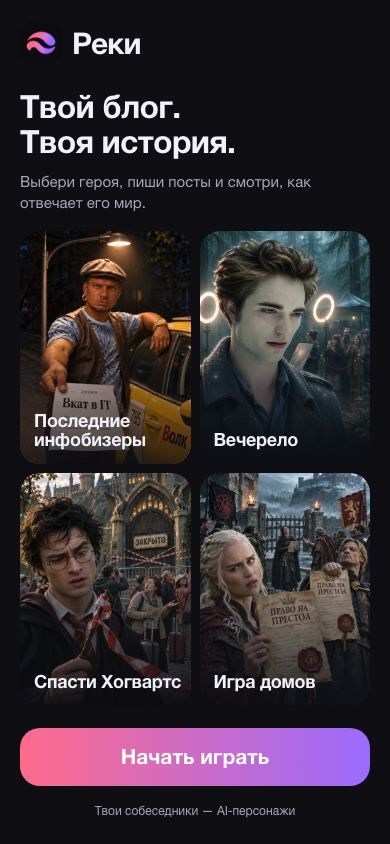
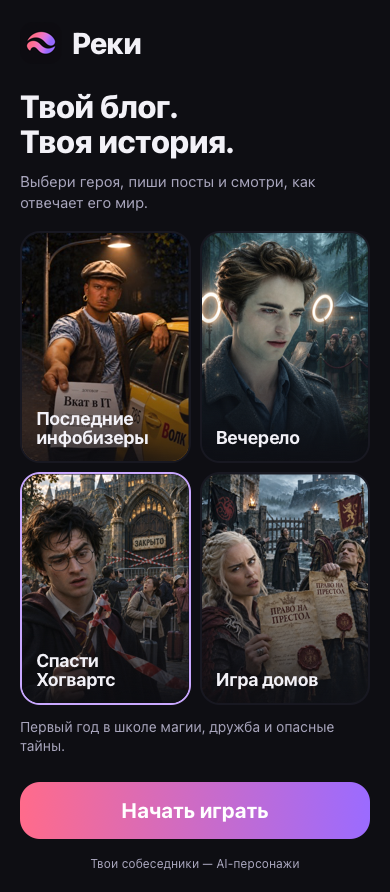
feat(frontend): вход в выбранный на лендинге мир #205 (#310)
Лендинги выбирают мир до входа; новый игрок проходит возраст и согласие перед настройкой выбранного мира. Главная открывает Хогвартс, явные ссылки переключают лендинг.

Refs #205

diff --git a/frontend/src/app/landing/Landing.tsx b/frontend/src/app/landing/Landing.tsx
@@ -1,18 +1,33 @@
 import { useEffect, useRef, useState } from 'react'
+import { api } from '../../api/client'
+import { worlds as templates } from '../../api/worldContent'
+import type { World } from '../../api/types'
 import { Button } from '../../ui'
 import { screenView, trackLanding } from '../analytics'
 import { assignLanding, requestedVariant } from './experiment'
 import './landing.css'
 
 const worlds = [
-  { id: 'infobiz', title: 'Последние инфобизеры' },
-  { id: 'evening', title: 'Вечерело' },
-  { id: 'hogwarts', title: 'Спасти Хогвартс' },
-  { id: 'houses', title: 'Игра домов' },
+  { id: 'infobiz', templateId: '5720946a-ea7c-4a10-9c50-51ce3deefc53', title: 'Последние инфобизеры' },
+  { id: 'evening', templateId: 'b3a1a522-0263-4796-a197-57a8731fc291', title: 'Вечерело' },
+  { id: 'hogwarts', templateId: 'aec9494b-4118-4525-8458-e85d759c8dd9', title: 'Спасти Хогвартс' },
+  { id: 'houses', templateId: '8c02a7fb-3b55-4eb0-b957-1b4869ed9834', title: 'Игра домов' },
 ] as const
 
-export function Landing({ onContinue, preview = false }: { onContinue: () => void; preview?: boolean }) {
-  const [variant] = useState(() => preview ? requestedVariant() ?? 'worlds' : assignLanding())
+export function Landing({ onContinue, preview = false }: { onContinue: (worldId: string) => void; preview?: boolean }) {
+  const [variant] = useState(() => preview ? requestedVariant() ?? 'hogwarts' : assignLanding())
+  const [selected, setSelected] = useState<string>(variant === 'hogwarts' ? worlds[2].templateId : worlds[0].templateId)
+  const [available, setAvailable] = useState<World[]>([])
+  const [error, setError] = useState(false)
+  const [attempt, setAttempt] = useState(0)
+  useEffect(() => {
+    let active = true
+    setError(false)
+    void api.loadWorldTemplates().then(() => { if (active) setAvailable([...templates]) }).catch(() => { if (active) setError(true) })
+    return () => { active = false }
+  }, [attempt])
+  const chosen = available.find(world => world.id === selected)
+  const summary = chosen && (selected === worlds[2].templateId ? 'Первый год в школе магии, дружба и опасные тайны.' : chosen.summary)
   const viewed = useRef(false)
   const clicked = useRef(false)
   const heading = useRef<HTMLHeadingElement>(null)
@@ -24,20 +39,21 @@ export function Landing({ onContinue, preview = false }: { onContinue: () => voi
     trackLanding('landing_view')
   }, [variant, preview])
   const start = () => {
-    if (clicked.current) return
+    if (clicked.current || !chosen) return
     clicked.current = true
-    onContinue()
+    onContinue(chosen.id)
   }
   return <main className={`entry-landing entry-landing--${variant}`} aria-labelledby="landing-title">
     {variant === 'hogwarts' && <img className="landing-hero-art" src="/landing/hogwarts-960.jpg" srcSet="/landing/hogwarts-480.jpg 480w, /landing/hogwarts-960.jpg 960w" sizes="(max-width: 430px) 100vw, 430px" alt="Озадаченный волшебник перед закрытым замком, ограждённым лентой; туристы фотографируют ворота" fetchPriority="high" />}
     <header className="landing-brand"><img src="/android-chrome-192x192.png?v=wave-2" width="42" height="42" alt="" /><span>Реки</span></header>
     {variant === 'worlds' ? <>
       <section className="landing-copy"><h1 ref={heading} id="landing-title" tabIndex={-1}>Твой блог.<br />Твоя история.</h1><p>Выбери героя, пиши посты и смотри, как отвечает его мир.</p></section>
-      <section className="landing-mosaic" aria-label="Игровые миры">{worlds.map(world => <div className="landing-world" key={world.id}><img src={`/landing/${world.id}-480.jpg`} width="480" height="720" alt="" fetchPriority={world.id === 'infobiz' ? 'high' : 'auto'} /><strong>{world.title}</strong></div>)}</section>
+      <section className="landing-mosaic" aria-label="Игровые миры">{worlds.map(world => <button type="button" className="landing-world" key={world.id} aria-pressed={selected === world.templateId} onClick={() => setSelected(world.templateId)}><img src={`/landing/${world.id}-480.jpg`} width="480" height="720" alt="" fetchPriority={world.id === 'infobiz' ? 'high' : 'auto'} /><strong>{world.title}</strong></button>)}</section>
+      <p className="landing-world-summary" aria-live="polite">{summary ?? (error ? '' : available.length ? 'Этот мир сейчас недоступен. Выбери другой.' : 'Загружаем миры…')}</p>
     </> : <>
-      <section className="landing-hero-copy"><div className="landing-eyebrow">Спасти Хогвартс</div><h1 ref={heading} id="landing-title" tabIndex={-1}>Хогвартс закрыт.<br />Твоя история — нет.</h1><p>Выбери героя. Веди его блог.<br />Решай, кому верить.</p></section>
+      <section className="landing-hero-copy"><div className="landing-eyebrow">Спасти Хогвартс</div><h1 ref={heading} id="landing-title" tabIndex={-1}>Хогвартс закрыт.<br />Спаси его от банкротства.</h1><p>Выбери героя. Веди его блог.<br />Решай, кому верить.</p></section>
       <section className="landing-other-worlds" aria-label="Другие игровые миры">{worlds.filter(world => world.id !== 'hogwarts').map(world => <div key={world.id}><img src={`/landing/${world.id}-480.jpg`} width="480" height="720" alt="" /><span>{world.id === 'infobiz' ? 'Инфобизеры' : world.title}</span></div>)}</section>
     </>}
-    <footer className="landing-actions"><Button onClick={start}>Начать играть</Button><p>Твои собеседники — AI-персонажи</p></footer>
+    <footer className="landing-actions">{error && <div role="alert" className="landing-load-error"><p>Не получилось загрузить миры.</p><Button secondary onClick={() => setAttempt(value => value + 1)}>Попробовать снова</Button></div>}{!error && variant === 'hogwarts' && !chosen && <p role="status">{available.length ? 'Этот мир сейчас недоступен.' : 'Загружаем мир…'}</p>}<Button onClick={start} disabled={!chosen}>Начать играть</Button><p>Твои собеседники — AI-персонажи</p></footer>
   </main>
 }

diff --git a/frontend/src/app/landing/experiment.ts b/frontend/src/app/landing/experiment.ts
@@ -1,7 +1,9 @@
 export type LandingVariant = 'worlds' | 'hogwarts'
-type Assignment = { variant: LandingVariant; source: 'link' | 'direct'; utm: Record<string, string>; firstPost?: boolean }
+type Assignment = { variant: LandingVariant; source: 'link' | 'direct'; utm: Record<string, string>; firstPost?: boolean; initialVariant?: LandingVariant; switched?: boolean; worldId?: string }
 const key = 'reki:landing:entry-v1'
 const authKey = `${key}:auth`
+const worldKey = `${key}:world`
+let worldFallback: string | undefined
 let fallback: Assignment | undefined
 const valid = (value: unknown): value is LandingVariant => value === 'worlds' || value === 'hogwarts'
 export const isLandingPreview = () => !!import.meta.env?.DEV && new URLSearchParams(location.search).get('preview') === 'landing'
@@ -10,6 +12,7 @@ export function requestedVariant(): LandingVariant | undefined {
   return valid(value) ? value : undefined
 }
 function read(): Assignment | undefined {
+  if (fallback) return fallback
   try {
     const value = JSON.parse(localStorage.getItem(key) ?? 'null') as Assignment | null
     if (value && valid(value.variant) && (value.source === 'link' || value.source === 'direct')) return value
@@ -22,27 +25,38 @@ function save(value: Assignment) {
 }
 export function assignLanding(): LandingVariant {
   const saved = read()
-  if (saved) return saved.variant
   const requested = requestedVariant()
+  const variant = requested ?? 'hogwarts'
+  const source = requested ? 'link' : 'direct'
+  if (saved && variant === saved.variant && source === saved.source) return saved.variant
   const query = new URLSearchParams(location.search)
   const utm: Record<string, string> = {}
   for (const name of ['utm_source', 'utm_medium', 'utm_campaign', 'utm_content']) {
     const value = query.get(name)
     if (value && /^[a-zA-Z0-9_.-]{1,64}$/.test(value)) utm[name] = value
   }
-  const assignment: Assignment = { variant: requested ?? 'worlds', source: requested ? 'link' : 'direct', utm }
+  const assignment: Assignment = { variant, source, utm, firstPost: saved?.firstPost, initialVariant: saved?.initialVariant ?? saved?.variant ?? variant, switched: saved?.switched || !!saved && saved.variant !== variant }
+  clearLandingWorld()
+  authFallback = false
+  try { sessionStorage.removeItem(authKey) } catch { /* A new landing starts a new entry attempt. */ }
   save(assignment)
   return assignment.variant
 }
 export function landingContext(): Record<string, string> | undefined {
   const value = read()
-  return value ? { ...value.utm, landing_experiment: 'entry_v1', landing_variant: value.variant, landing_source: value.source } : undefined
+  return value ? { ...value.utm, landing_experiment: 'entry_v1', landing_variant: value.variant, landing_initial_variant: valid(value.initialVariant) ? value.initialVariant : value.variant, landing_switched: value.switched ? 'true' : 'false', landing_source: value.source, ...(value.worldId ? { landing_world_id: value.worldId } : {}) } : undefined
 }
 let authFallback = false
 export function landingAuthPending(): boolean {
+  const requested = requestedVariant()
+  if (requested && requested !== read()?.variant) return false
   try { return sessionStorage.getItem(authKey) === '1' || authFallback } catch { return authFallback }
 }
-export function beginLandingAuth() {
+export function beginLandingAuth(worldId: string) {
+  worldFallback = worldId
+  try { sessionStorage.setItem(worldKey, worldId) } catch { /* Keep this visit usable. */ }
+  const value = read()
+  if (value) save({ ...value, worldId })
   authFallback = true
   try { sessionStorage.setItem(authKey, '1') } catch { /* Keep the button working. */ }
 }
@@ -57,4 +71,12 @@ export function completeLandingPost(): boolean {
   if (isLandingPreview() || !value || value.firstPost) return false
   save({ ...value, firstPost: true })
   return true
+}
+
+export function pendingLandingWorld(): string | undefined {
+  try { return worldFallback ?? sessionStorage.getItem(worldKey) ?? undefined } catch { return worldFallback }
+}
+export function clearLandingWorld() {
+  worldFallback = undefined
+  try { sessionStorage.removeItem(worldKey) } catch { /* In-memory state is enough for this visit. */ }
 }

diff --git a/frontend/src/App.tsx b/frontend/src/App.tsx
@@ -16,7 +16,7 @@ import { useAvatarPersonalization } from './app/avatarPersonalization'
 import type { WorldId } from './api/types'
 
 import { Landing } from './app/landing/Landing'
-import { beginLandingAuth, completeLandingAuth, landingAuthPending, isLandingPreview } from './app/landing/experiment'
+import { beginLandingAuth, completeLandingAuth, landingAuthPending, isLandingPreview, pendingLandingWorld } from './app/landing/experiment'
 
 type Entry = { id: ScreenId; params: Record<string, unknown> }
 
@@ -53,14 +53,16 @@ function Shell() {
   useEffect(() => { setScreen(top.id); screenView(top.id) }, [top.id])
   useEffect(() => { if (player?.experiments) setExperiments(player.experiments) }, [player?.experiments])
   useEffect(() => {
-    if ((playerState !== 'ready' && !(playerState === 'missing' && api.hasPlayer())) || explicitStart || top.id !== '01-1_invite') return
-    setStack([{ id: '01-3_world', params: {} }])
+    if (explicitStart || top.id !== '01-1_invite' || playerState === 'loading' || playerState === 'failed') return
+    const world = pendingLandingWorld()
+    if (world) setStack([{ id: api.hasPlayer() ? '01-3b_world_overview' : '01-2_age', params: { world, fromLanding: true } }])
+    else if (playerState === 'ready' || api.hasPlayer()) setStack([{ id: '01-3_world', params: {} }])
   }, [explicitStart, playerState, top.id])
   const back = useCallback(() => nav.back(), [nav])
   useEffect(() => syncBackButton(stack.length > 1 && top.id !== '02-6_thread', back), [stack.length, top.id, back])
 
   const Screen = SCREENS[top.id]?.component
-  const resolvingExistingPlayer = (playerState === 'ready' || playerState === 'missing' && api.hasPlayer()) && !explicitStart && top.id === '01-1_invite'
+  const resolvingExistingPlayer = (playerState === 'ready' || playerState === 'missing' && (api.hasPlayer() || !!pendingLandingWorld())) && !explicitStart && top.id === '01-1_invite'
   if (!Screen || playerState === 'loading' || resolvingExistingPlayer) return <div className="app"><div className="screen"><div className="pad" role="status">Загружаем твою игру…</div></div></div>
   if (playerState === 'failed') return <div className="app"><div className="screen"><div className="pad"><p>Не получилось загрузить игру.</p><button className="btn" onClick={() => location.reload()}>Попробовать снова</button></div></div></div>
   const people: React.ContextType<typeof AvatarPeople> = {}
@@ -115,8 +117,8 @@ export function App() {
         : 'Не получилось войти. Проверь подключение и попробуй снова.')
     }).finally(() => setBusy(false))
   }
-  if (!explicitStart && (landingPreview || ready && !authenticated && !registration && !resumable && !landingAccepted)) return <Landing preview={landingPreview} onContinue={() => {
-    if (!landingPreview) { beginLandingAuth(); trackLanding('landing_continue') }
+  if (!explicitStart && (landingPreview || ready && !authenticated && !registration && !resumable && !landingAccepted)) return <Landing preview={landingPreview} onContinue={worldId => {
+    if (!landingPreview) { beginLandingAuth(worldId); trackLanding('landing_continue') }
     setLandingAccepted(true); setLandingPreview(false)
   }} />
   if (!explicitStart && !ready) return <div className="app"><div className="screen"><div className="pad" role="status">Входим в игру…</div></div></div>

diff --git a/frontend/src/screens/worldQuick.tsx b/frontend/src/screens/worldQuick.tsx
@@ -1,9 +1,10 @@
+import { clearLandingWorld } from '../app/landing/experiment'
 import { useState, type ReactNode } from 'react'
 import { useStore } from '../app/store'
 import { avatarPersonalization } from '../app/avatarPersonalization'
 import { displayHandle } from '../app/handle'
 import type { AgeBand } from '../app/ageBand'
-import { worldDefinitionOf } from '../api/worldContent'
+import { worldDefinitionOf, worlds } from '../api/worldContent'
 import { api } from '../api/client'
 import { WorldSwitchDialog } from '../ui/WorldSwitchDialog'
 import { presetGoalFor } from '../app/presetGoals'
@@ -20,7 +21,9 @@ export function WorldOverview() {
   const draft = useWorldDraft(); const nav = useNav(); const { player } = useStore()
   const [confirmSwitch, setConfirmSwitch] = useState(false)
   const world = nav.params.world as WorldId | undefined ?? draft?.definition.templateId
-  if (!world) return <div className="screen no-tab world-overview"><TopBar title="Обзор мира" onBack={nav.back} /><div className="pad"><Button onClick={() => nav.replace('01-3_world')}>Выбрать мир</Button></div></div>
+  const catalog = () => { clearLandingWorld(); nav.replace('01-3_world', { group: nav.params.group, ageBand: nav.params.ageBand }) }
+  const back = () => nav.params.fromLanding ? catalog() : nav.back()
+  if (!world || !worlds.some(template => template.id === world)) return <div className="screen no-tab world-overview"><TopBar title="Обзор мира" onBack={back} /><div className="pad"><p>Этот мир сейчас недоступен.</p><Button onClick={catalog}>Выбрать мир</Button></div></div>
   const d = worldDefinitionOf(world); const art = worldArt[d.templateId ?? '']; const goal = presetGoalFor(d)
   const begin = (confirmed = false) => {
     selectDraftOwner(player?.id ?? api.playerId() ?? 'onboarding')
@@ -28,7 +31,7 @@ export function WorldOverview() {
     if (!confirmed && previous && (previous.definition.templateId !== world || previous.editingId)) { setConfirmSwitch(true); return }
     const restored = savedWorldDraft(world)
     const profile = player ?? api.onboardingProfile()
-    setWorldDraft(restored && !restored.previewOnly ? restored : {
+    setWorldDraft(restored && !restored.previewOnly ? { ...restored, ...(nav.params.ageBand ? { group: nav.params.group as '14-17' | '18+', ageBand: nav.params.ageBand as AgeBand } : {}) } : {
       definition: d, heroOrder: d.stars.map(star => star.id), address: profile?.address ?? 'nick',
       group: profile ? (profile.ageBand === '14-17' ? '14-17' : '18+') : (nav.params.group as '14-17' | '18+') ?? '14-17',
       ageBand: profile?.ageBand ?? nav.params.ageBand as AgeBand | undefined,
@@ -37,7 +40,7 @@ export function WorldOverview() {
     setConfirmSwitch(false)
     nav.push('01-4_channel')
   }
-  return <div className="screen no-tab world-overview"><TopBar title="Обзор мира" onBack={nav.back} />
+  return <div className="screen no-tab world-overview"><TopBar title="Обзор мира" onBack={back} />
     {art && <WorldCover world={world} className="world-hero" priority alt={`Обложка мира «${d.title}»`} />}
     <div className="pad"><div className="small eyebrow">{art?.genre}</div><h1>{d.emoji} {d.title}</h1><p className="muted">{art?.pitch ?? d.description}</p>
       {goal && <Card><div className="small eyebrow">Твой путь</div><p>{goal.goal}</p></Card>}

diff --git a/frontend/src/screens/worldWizard.tsx b/frontend/src/screens/worldWizard.tsx
@@ -1,3 +1,4 @@
+import { clearLandingWorld } from '../app/landing/experiment'
 import {PushNotifications} from '../app/push/PushNotifications'
 import {InstallApp} from '../app/install/InstallApp'
 import { Resources } from '../ui/Resources'
@@ -37,7 +38,7 @@ export function ChooseWorld() {
   }
   const currentWorld = player ? owned.find(world => world.id === player.worldInstanceId) ?? { ...worldDocumentOf(player.world), id: player.worldInstanceId ?? player.world, name: player.name, avatar: player.handle, subscribers: player.subs } : undefined
   const otherWorlds = owned.filter(world => world.id !== currentWorld?.id)
-  const resume = async (world: WorldDocument) => { try { const next = await api.me(world.id); setPlayer(next); nav.push('03-5_stage') } catch { setError('Не получилось открыть мир.') } }
+  const resume = async (world: WorldDocument) => { try { const next = await api.me(world.id); clearLandingWorld(); setPlayer(next); nav.push('03-5_stage') } catch { setError('Не получилось открыть мир.') } }
   return <div className="screen no-tab"><TopBar title="Миры" rightPlain right={player ? <Resources player={player} /> : undefined} />
     <div className="pad world-catalog-page worlds-home"><InstallApp entry="banner" />{player && <PushNotifications key={player.id} playerId={player.id} entry="banner" />}{!player && <><h1>Выбери свою историю</h1><p className="muted">Готовые миры доступны сразу.</p></>}
       {getWorldDraft() && <Button secondary onClick={() => nav.push(getWorldDraft()?.definition.templateId === null ? '05-7b_own_world' : '01-4_channel')}>Продолжить настройку</Button>}
@@ -87,7 +88,7 @@ function StarsForm({ draft, quick = false }: { draft: NonNullable<ReturnType<typ
       creatingWorld = !draft.editingId
       const player = draft.editingId ? await api.saveWorld(draft.editingId, d) : await api.createWorld(d)
       setAvatarPersonalization(player.id, draft.personalizeAvatar !== false)
-      setWorldDraft(null); setPlayer(player); nav.replace('03-5_stage')
+      clearLandingWorld(); setWorldDraft(null); setPlayer(player); nav.replace('03-5_stage')
     } catch (cause) {
       if (creatingWorld && !(cause instanceof ApiError)) { setUncertain(true); setError('Не удалось подтвердить создание. Сначала проверь список миров: повтор может создать ещё один экземпляр.') }
       else setError(cause instanceof ApiError && cause.status === 409 ? 'Мир изменился или создание с нуля пока недоступно. Твои изменения сохранены в черновике.' : cause instanceof ApiError && cause.status === 503 ? 'Проверка истории временно недоступна. Настройки сохранены — попробуй начать ещё раз чуть позже.' : 'Не получилось сохранить мир. Проверь поля и попробуй снова.')

diff --git a/frontend/src/screens/onboarding.tsx b/frontend/src/screens/onboarding.tsx
@@ -1,3 +1,4 @@
+import { pendingLandingWorld } from '../app/landing/experiment'
 import { Resources } from '../ui/Resources'
 import { Streak } from '../ui/Streak'
 import { displayHandle } from '../app/handle'
@@ -84,7 +85,7 @@ function Age() {
         </Card>
         {!agree && <div className="small muted" style={{ textAlign: 'center', marginTop: 10 }}>Отметь согласие, чтобы продолжить</div>}
       </div>
-      <BottomCTA main="Дальше" disabled={!agree} onMain={() => { track('onboarding_step', { step: 'age', ok: age >= 14 }); nav.push(age < 14 ? '01-2b_under14' : '01-3_world', { group: age < 18 ? '14-17' : '18+', ageBand: ageBand(age) }) }} />
+      <BottomCTA main="Дальше" disabled={!agree} onMain={() => { track('onboarding_step', { step: 'age', ok: age >= 14 }); const world = pendingLandingWorld(); nav.push(age < 14 ? '01-2b_under14' : world ? '01-3b_world_overview' : '01-3_world', { ...(world ? { world, fromLanding: true } : {}), group: age < 18 ? '14-17' : '18+', ageBand: ageBand(age) }) }} />
     </div>
   )
 }

diff --git a/frontend/src/app/landing/landing.css b/frontend/src/app/landing/landing.css
@@ -28,3 +28,10 @@
 @media (max-width:350px) { .entry-landing { padding-inline:16px; } .entry-landing h1 { font-size:28px; } .landing-world strong { font-size:16px; left:11px; bottom:12px; } .landing-other-worlds { gap:7px; } }
 
 @media (max-width:300px) { .landing-mosaic { grid-template-columns:1fr; grid-template-rows:repeat(4,320px); height:auto; } .landing-other-worlds span { overflow-wrap:anywhere; } }
+
+button.landing-world { padding:0; border:2px solid transparent; color:var(--text); font:inherit; text-align:left; cursor:pointer; appearance:none; }
+button.landing-world[aria-pressed="true"] { border-color:var(--lilac); }
+button.landing-world:focus-visible { outline:2px solid var(--lilac); outline-offset:3px; }
+.landing-world-summary { min-height:42px; margin:12px 0 0; color:var(--muted); font-size:14px; line-height:1.4; }
+.landing-load-error { margin-bottom:14px; }
+.landing-load-error p { margin:0 0 10px; font-size:14px; }

diff --git a/frontend/src/api/client.ts b/frontend/src/api/client.ts
@@ -1,3 +1,4 @@
+import { clearLandingWorld } from '../app/landing/experiment'
 import { completeLandingPost } from '../app/landing/experiment';
 // Р¤Р°СЃР°Рґ API РїРѕРІРµСЂС… NSwag Fetch-РєР»РёРµРЅС‚Р°.
 // Р’Рѕ С„СЂРѕРЅС‚Рµ РќР•Рў СЃРµРєСЂРµС‚РѕРІ: runtime config РІРёРґРµРЅ РІ Р±СЂР°СѓР·РµСЂРµ. РљР»СЋС‡Рё LLM Рё С‚РѕРєРµРЅ Р±РѕС‚Р° Р¶РёРІСѓС‚ С‚РѕР»СЊРєРѕ РЅР° Р±СЌРєРµРЅРґРµ.
@@ -173,6 +174,7 @@ export const api = {
     },
     logout: async () => {
         await revokeSession();
+        clearLandingWorld();
         api.clearSession();
     },
     loadWorldTemplates: loadTemplates,

diff --git a/docs/game-flow.md b/docs/game-flow.md
@@ -334,9 +334,9 @@ ownWords хранит происхождение черновика: новый 
 
 ## Первый экран перед авторизацией — A/B (#205, 14.11.2026)
 
-Перед текущим браузерным входом показываем один из двух согласованных лендингов: четыре мира (`?landing=worlds`) или крупная обложка Хогвартса (`?landing=hogwarts`). В обоих одна кнопка «Начать играть» открывает прежнюю авторизацию. После входа остаётся одинаковый путь игры; лендинг Хогвартса не выбирает мир за игрока. Карточки на первом экране — иллюстрации, а не выбор роли или мира.
+Перед текущим браузерным входом показываем один из двух согласованных лендингов: четыре мира (`?landing=worlds`) или крупная обложка Хогвартса (`?landing=hogwarts`). До входа загружаем готовые миры через публичный `GET /worlds/templates`. В варианте с четырьмя мирами карточки выбирают мир и меняют краткое описание из API (для школы используем рекламную формулировку «Первый год в школе магии, дружба и опасные тайны.»); по умолчанию выбран первый. Заголовок лендинга Хогвартса: «Хогвартс закрыт. Спаси его от банкротства». Этот лендинг выбирает шаблон «Школа чародеев». Связь иллюстрации с шаблоном задаётся его ID, а не названием. «Начать играть» сохраняет выбранный ID на текущую попытку входа и открывает прежнюю авторизацию. Новый игрок после входа обязательно указывает возраст и отдельно отмечает согласие на обработку данных; младше 14 лет регистрация не продолжается. Затем сразу открывается обзор выбранного мира, выбор персонажа и настройка истории — повторного каталога нет. У зарегистрированного игрока повторного согласия нет: после входа открывается обзор выбранного мира. Из обзора можно добровольно вернуться в каталог. Перезагрузка до создания мира сохраняет выбор в пределах вкладки; успешное создание, добровольный возврат в каталог, продолжение существующей истории или выход очищает незавершённый выбор. Ошибка API даёт повтор загрузки, недоступный шаблон не заменяем другим молча.
 
-Первый показ закрепляет вариант на этом браузере для эксперимента `entry_v1`; повторный переход по другой рекламной ссылке не меняет группу. Обычный вход без параметра получает четыре мира и отдельный источник `direct`, который исключают из рекламного сравнения. Распределение рекламной аудитории 50/50 задаётся в рекламной системе, приложение не перераспределяет посетителей. Существующая авторизованная сессия, подтверждённая внешняя идентичность и восстановление незавершённого входа пропускают лендинг. Выход из аккаунта в открытом приложении возвращает к авторизации.
+Явный корректный параметр `landing` всегда выбирает соответствующий экран, даже если раньше был сохранён другой вариант. Главная ссылка без параметра всегда открывает Хогвартс, независимо от ранее показанного лендинга. Исходная группа сохраняется отдельно, а посетители, увидевшие оба варианта, помечаются `landing_switched=true` и исключаются из чистого A/B-сравнения. Переключение не обнуляет уже учтённый первый пост. Обычный вход без параметра получает Хогвартс и отдельный источник `direct`, который исключают из рекламного сравнения. Распределение рекламной аудитории 50/50 задаётся в рекламной системе, приложение не перераспределяет посетителей. Существующая авторизованная сессия, подтверждённая внешняя идентичность и восстановление незавершённого входа пропускают лендинг. Выход из аккаунта в открытом приложении возвращает к авторизации.
 
 UTM остаются в адресе. В атрибуции сохраняются только короткие коды `utm_source`, `utm_medium`, `utm_campaign`, `utm_content`: латинские буквы, цифры, `_`, `-`, `.` до64символов. Тексты игрока, токены и имена в аналитику лендинга не передаются. Полная воронка до авторизации измеряется существующей Яндекс.Метрикой, а не защищённым `/events`; настройка целей описана в `analytics.md`.
 

diff --git a/docs/analytics.md b/docs/analytics.md
@@ -160,10 +160,10 @@ Stickiness — сумма активных профиле-дней / число 
 | `landing_auth_complete` | После нажатия получен app-доступ или сервер подтвердил внешнюю идентичность для регистрации. Это подтверждение входа, не завершение создания мира. Восстановление уже действующей сессии само по себе не создаёт цель. |
 | `landing_first_post` | Сервер подтвердил создание первого обычного поста после участия в лендинге. Репосты, цитаты, комментарии, нажатие «Опубликовать» и ошибки запроса не засчитываются. Повторные посты в том же эксперименте не создают цель снова. |
 
-Параметры целей: `landing_experiment=entry_v1`, `landing_variant=worlds|hogwarts`, `landing_source=link|direct`, а также прошедшие фильтр короткие UTM-коды. Вариант и первая атрибуция сохраняются на браузере; смена URL группы не перезаписывает. Очистка хранилища или другой браузер создают новое участие. Это клиентское измерение по подтверждённому ответу, не серверный реестр всех сохранённых постов: потерянный ответ может дать недоучёт.
+Параметры целей: `landing_experiment=entry_v1`, `landing_variant=worlds|hogwarts` (реально показанный экран), `landing_initial_variant` (исходная группа), `landing_switched=true|false`, `landing_source=link|direct`, а также прошедшие фильтр короткие UTM-коды. После «Начать играть» передаётся `landing_world_id` — ID выбранного шаблона из публичного API; он сохраняется для следующих шагов воронки. Явный параметр ссылки имеет приоритет над сохранённым экраном; без него показывается Хогвартс с источником `direct`, независимо от ранее показанного варианта. При переключении обновляются вариант и UTM из новой ссылки, сохраняются исходная группа и отметка уже учтённого первого поста. Такие посетители получают `landing_switched=true`; их исключают из чистого сравнения, чтобы не приписывать конверсию другому экрану. Смена группы начинает новую попытку входа, а не продолжает незавершённую попытку предыдущего варианта. Очистка хранилища или другой браузер создают новое участие. Это клиентское измерение по подтверждённому ответу, не серверный реестр всех сохранённых постов: потерянный ответ может дать недоучёт.
 
 Цели отправляются только production-сборкой. DEV-предпросмотр исключён из целей и локального закрепления. Нажатия, подтверждение входа и первый пост дополнительно используют существующее внутреннее событие `tap`, где `id` совпадает с именем цели, `kind` — вариант. Они доставляются в OpenObserve только после появления профиля; для общего знаменателя использовать Метрику. Backend-таксономия не меняется.
 
-Метрика сравнения — уникальные посетители с `landing_first_post` / уникальные посетители с `landing_view`, по одной группе и рекламной кампании. «Первый» здесь — первый подтверждённый обычный пост после участия в эксперименте, не обязательно первый за всю жизнь старого аккаунта. Промежуточные конверсии: `landing_view` → `landing_continue` → `landing_auth_complete` → `landing_first_post`.
+Метрика сравнения — уникальные посетители с `landing_first_post` / уникальные посетители с `landing_view`, по одной группе и рекламной кампании, с фильтром `landing_switched=false` (у исторических событий до исправления допустимо отсутствие поля). «Первый» здесь — первый подтверждённый обычный пост после участия в эксперименте, не обязательно первый за всю жизнь старого аккаунта. Промежуточные конверсии: `landing_view` → `landing_continue` → `landing_auth_complete` → `landing_first_post`.
 
 Граница атрибуции: один браузер. Если на прежнем экране авторизации пользователь выбирает переход во внешний Telegram Mini App или продолжает с другого устройства, сквозной перенос посетителя и группы не реализован. Не выдавать такие переходы за измеренные конверсии. Провайдеры входа и их кнопки сохранены.
